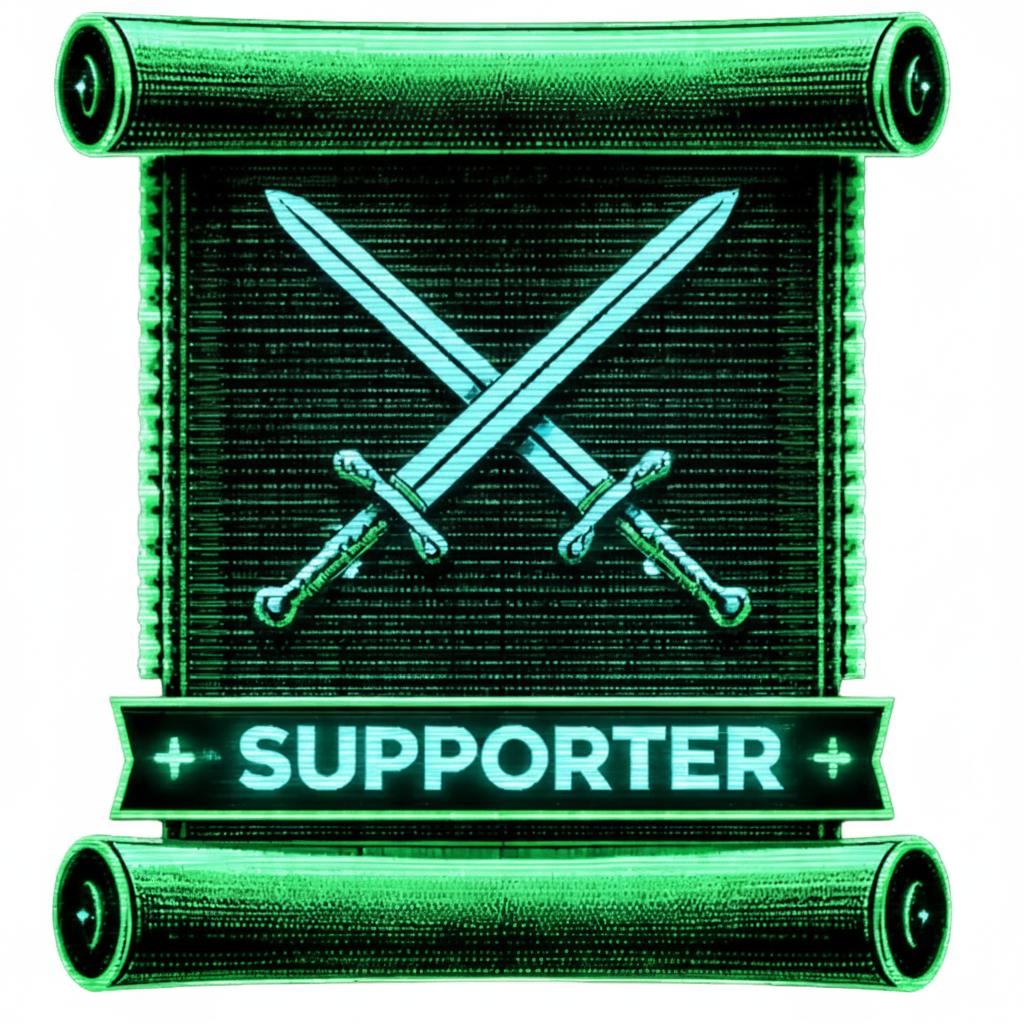
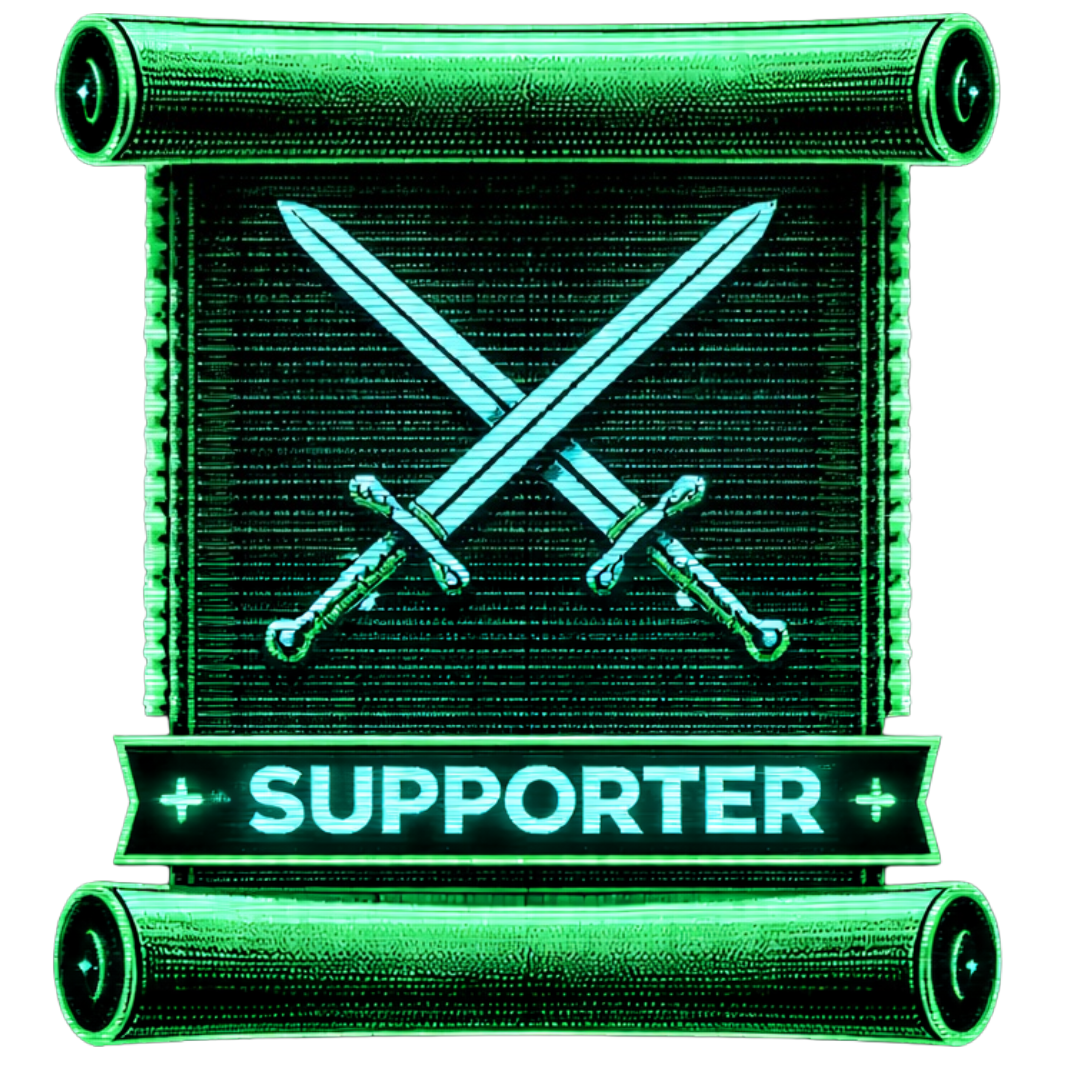
Changes

Changed region(s): [[0.0312, 0.0, 0.9375, 0.9688]]

diff --git a/src/components/supporter/SupporterHub.tsx b/src/components/supporter/SupporterHub.tsx
@@ -121,7 +121,7 @@ export function SupporterHub({
                 animation: 'shimmer 2.5s ease-in-out infinite',
               }}
             />
-            <img src={supporterIcon} alt="Supporter" className="w-5 h-5 relative z-10" style={{ filter: 'drop-shadow(0 0 4px hsl(200, 100%, 70%))' }} />
+            <img src={supporterIcon} alt="Supporter" className="w-5 h-5 relative z-10" style={{ filter: 'drop-shadow(0 0 6px hsl(200, 100%, 70%)) drop-shadow(0 0 2px hsl(200, 100%, 90%)) brightness(1.1) contrast(1.2)', mixBlendMode: 'screen' }} />
             <span className="font-mono text-xs font-bold uppercase tracking-wider text-white relative z-10" style={{ textShadow: '0 0 10px rgba(255,255,255,0.5)' }}>
               Supporter Hub
             </span>
@@ -142,7 +142,7 @@ export function SupporterHub({
                 background: 'linear-gradient(45deg, transparent 30%, hsl(200, 80%, 60%) 50%, transparent 70%)',
               }}
             />
-            <img src={supporterIcon} alt="Supporter" className="w-5 h-5 relative z-10 opacity-70 group-hover:opacity-100 transition-opacity" />
+            <img src={supporterIcon} alt="Supporter" className="w-5 h-5 relative z-10 opacity-70 group-hover:opacity-100 transition-opacity" style={{ filter: 'drop-shadow(0 0 4px hsl(200, 100%, 60%)) brightness(1.1) contrast(1.2)', mixBlendMode: 'screen' }} />
             <span className="font-mono text-xs font-medium uppercase tracking-wider relative z-10 transition-colors" style={{ color: 'hsl(200, 70%, 70%)' }}>
               Support
             </span>

diff --git a/src/pages/Campaigns.tsx b/src/pages/Campaigns.tsx
@@ -99,7 +99,7 @@ export default function Campaigns() {
                 boxShadow: '0 0 15px hsl(200 100% 60% / 0.4)',
               }}
             >
-              <img src={supporterIcon} alt="Supporters" className="w-7 h-7" style={{ filter: 'drop-shadow(0 0 4px hsl(200, 100%, 70%))' }} />
+              <img src={supporterIcon} alt="Supporters" className="w-7 h-7" style={{ filter: 'drop-shadow(0 0 6px hsl(200, 100%, 70%)) drop-shadow(0 0 2px hsl(200, 100%, 90%)) brightness(1.1) contrast(1.2)', mixBlendMode: 'screen' }} />
             </button>
           </TooltipTrigger>
           <TooltipContent>

diff --git a/src/components/dashboard/widgets/CampaignConsoleWidget.tsx b/src/components/dashboard/widgets/CampaignConsoleWidget.tsx
@@ -67,9 +67,10 @@ export const CampaignConsoleWidget = memo(function CampaignConsoleWidget({
           <img 
             src={donatorBadge} 
             alt="Supporter Badge" 
-            className="w-12 h-12 object-contain"
+            className="w-14 h-14 object-contain"
             style={{ 
-              filter: 'drop-shadow(0 0 8px hsl(200, 100%, 60%))',
+              filter: 'drop-shadow(0 0 8px hsl(200, 100%, 60%)) drop-shadow(0 0 3px hsl(200, 100%, 80%)) brightness(1.1) contrast(1.2)',
+              mixBlendMode: 'screen',
             }}
           />
         </div>
